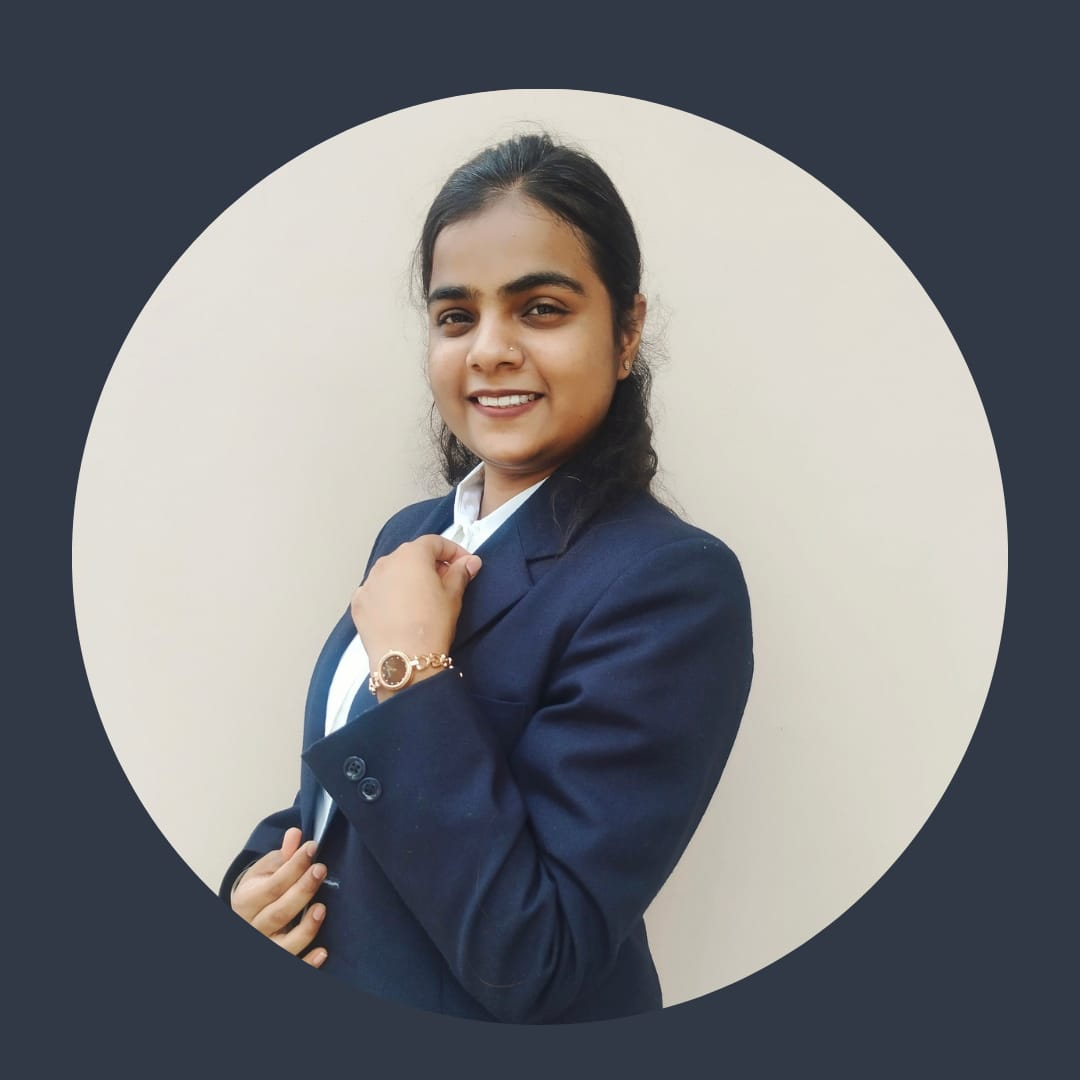
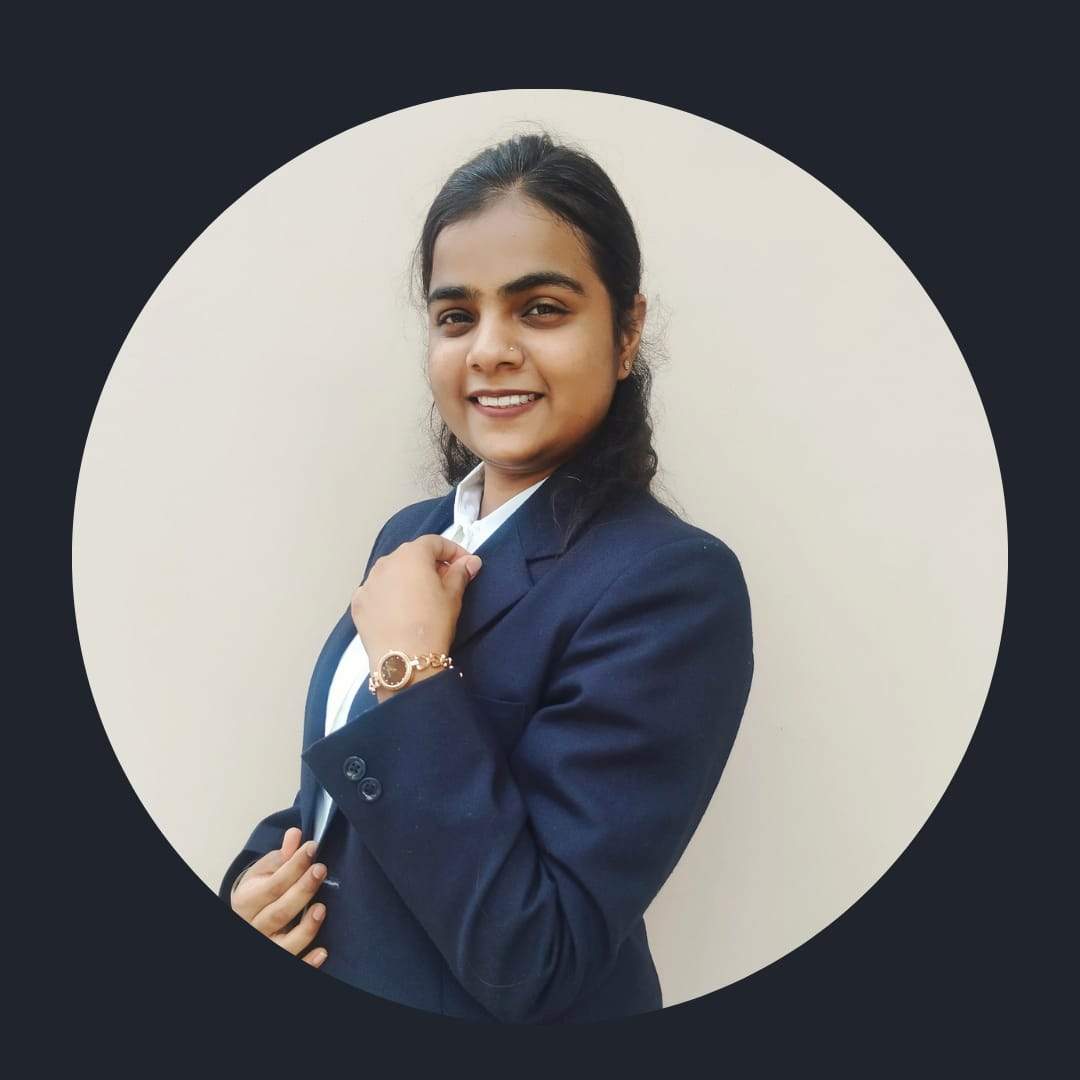
Add files via upload

diff --git a/app.js b/app.js
@@ -549,3 +549,21 @@ contactForm.addEventListener("submit", function(e) {
     });
 
 });
+
+
+// Mobile Menu Toggle
+const menuIcon = document.querySelector('#menu-icon');
+const navbar = document.querySelector('.navbar');
+
+menuIcon.addEventListener('click', () => {
+    menuIcon.classList.toggle('bx-x');
+    navbar.classList.toggle('active');
+});
+
+// Close menu after clicking a navigation link
+document.querySelectorAll('.navbar a').forEach(link => {
+    link.addEventListener('click', () => {
+        menuIcon.classList.remove('bx-x');
+        navbar.classList.remove('active');
+    });
+});

diff --git a/style.css b/style.css
@@ -157,7 +157,7 @@ span{
     justify-content: center;
     align-items: center;
     gap: 2rem;
-    background: var(--second-bg-color);
+    background: var(--bg-color);
 }
 .heading{
     text-align: center;
